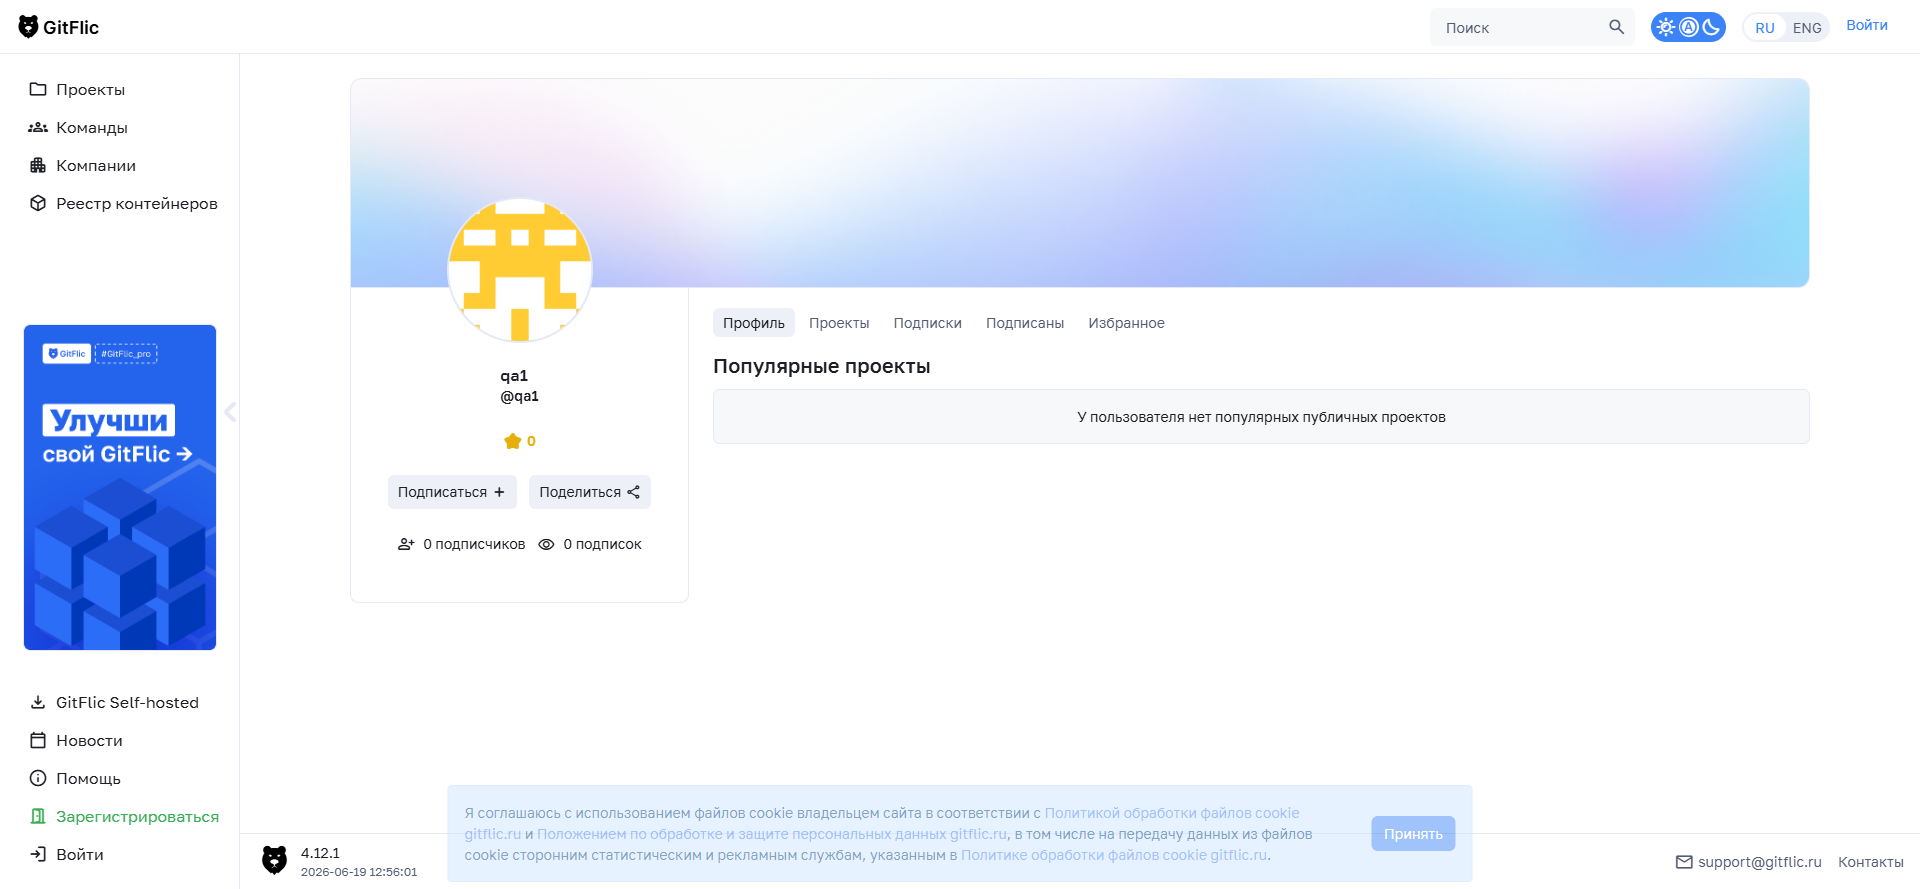
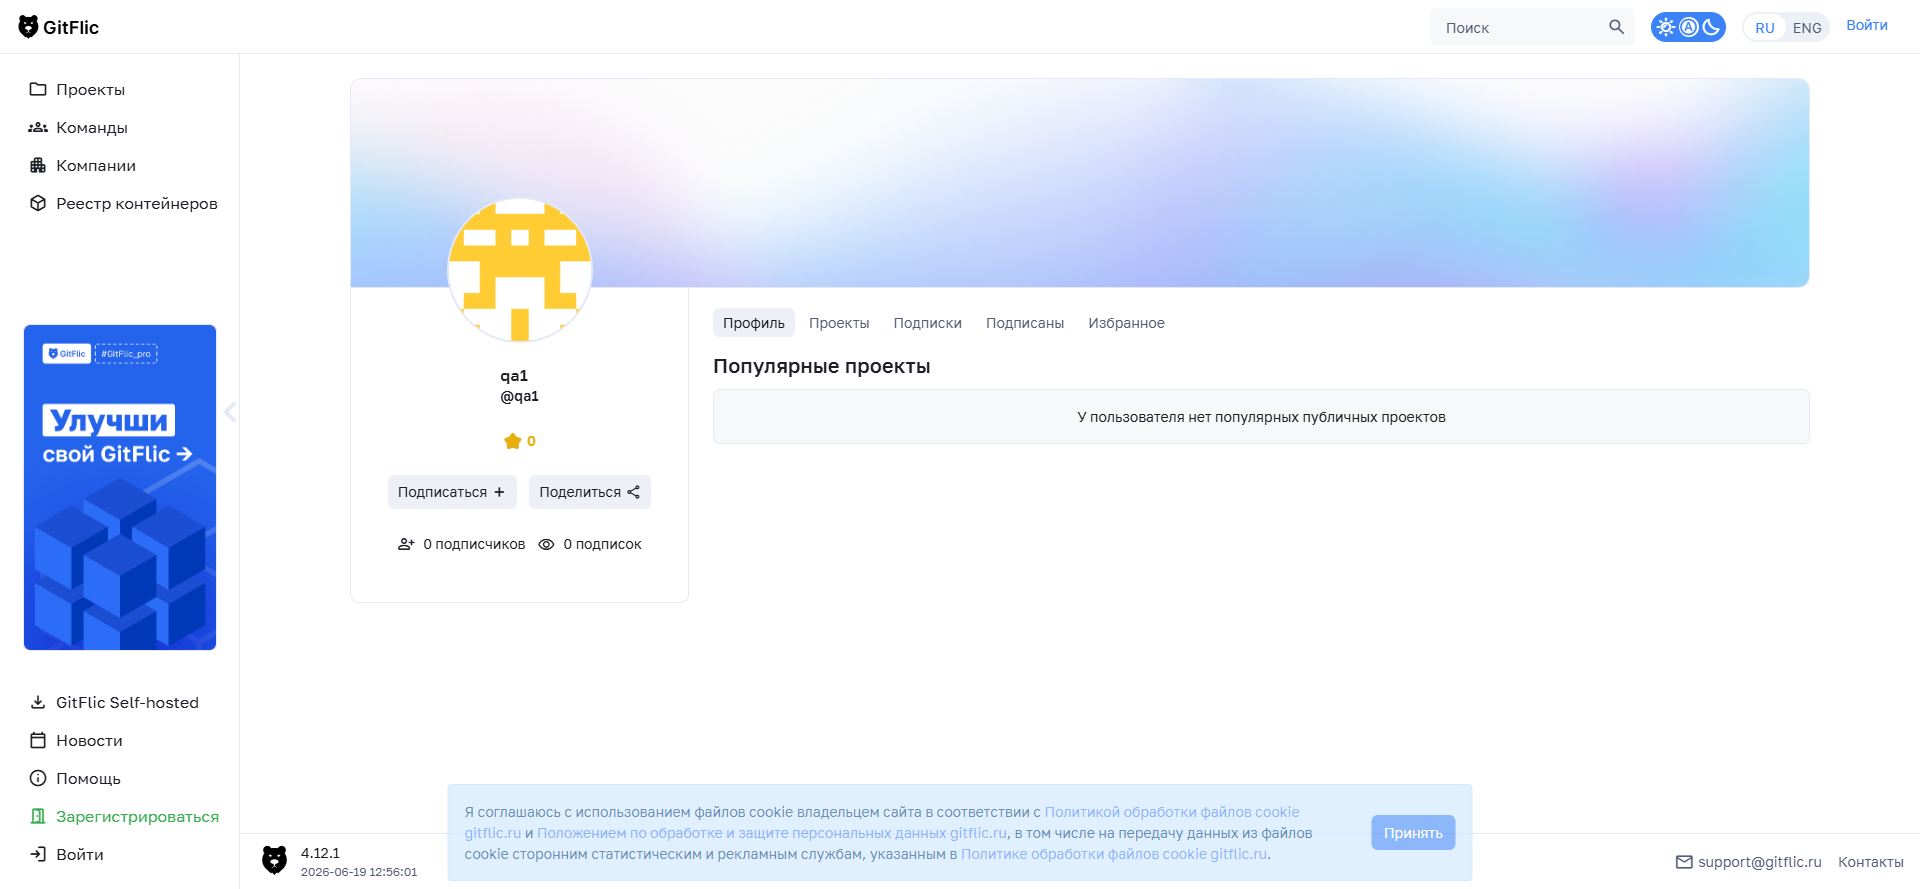
Контрольная работа из урока 5.6К. на проверку

Changed region(s): [[0.25, 0.9111, 0.6875, 0.9719], [0.7188, 0.9111, 0.75, 0.9415]]

diff --git a/Lesson_06K/test_01_form.py b/Lesson_06K/test_01_form.py
@@ -1,0 +1,87 @@
+from selenium import webdriver
+from selenium.webdriver.common.by import By
+
+
+def test_form():
+    driver = webdriver.Edge()
+    driver.get("https://bonigarcia.dev/selenium-webdriver-java/data-types.html")
+    driver.maximize_window()
+
+    input_first_name = driver.find_element(By.NAME, "first-name")
+    input_first_name.send_keys("Иван")
+
+    input_second_name = driver.find_element(By.NAME, "last-name")
+    input_second_name.send_keys("Петров")
+
+    input_address = driver.find_element(
+        By.CSS_SELECTOR, "input[name='address']")
+    input_address.send_keys("Ленина, 55-3")
+
+    input_email = driver.find_element(
+        By.CSS_SELECTOR, "input[name='e-mail']")
+    input_email.send_keys("[email redacted]")
+
+    input_phone_number = driver.find_element(
+        By.CSS_SELECTOR, "input[name='phone']")
+    input_phone_number.send_keys("[phone redacted]")
+
+    input_city = driver.find_element(
+        By.CSS_SELECTOR, "input[name='city']")
+    input_city.send_keys("Москва")
+
+    input_country = driver.find_element(
+        By.CSS_SELECTOR, "input[name='country']")
+    input_country.send_keys("Россия")
+
+    input_job_position = driver.find_element(By.NAME, "job-position")
+    input_job_position.send_keys("QA")
+
+    input_company = driver.find_element(
+        By.CSS_SELECTOR, "input[name='company']")
+    input_company.send_keys("SkyPro")
+
+    submit_btn = driver.find_element(
+        By.CSS_SELECTOR, "button[type='submit']")
+    submit_btn.click()
+
+    zip_code_alert = driver.find_element(
+        By.XPATH, "//div[@id='zip-code']")
+    assert zip_code_alert.get_attribute("class") == "alert py-2 alert-danger"
+
+    first_name_alert = driver.find_element(
+        By.XPATH, "//div[@id='first-name']")
+    assert first_name_alert.get_attribute("class") == "alert py-2 alert-success"
+
+    second_name_alert = driver.find_element(
+        By.XPATH, "//div[@id='last-name']")
+    assert second_name_alert.get_attribute("class") == "alert py-2 alert-success"
+
+    address_alert = driver.find_element(
+        By.XPATH, "//div[@id='address']")
+    assert address_alert.get_attribute("class") == "alert py-2 alert-success"
+
+    email_alert = driver.find_element(
+        By.XPATH, "//div[@id='e-mail']")
+    assert email_alert.get_attribute("class") == "alert py-2 alert-success"
+
+    phone_number_alert = driver.find_element(
+        By.XPATH, "//div[@id='phone']")
+    assert phone_number_alert.get_attribute("class") == "alert py-2 alert-success"
+
+    city_alert = driver.find_element(
+        By.XPATH, "//div[@id='city']")
+    assert city_alert.get_attribute("class") == "alert py-2 alert-success"
+
+    country_alert = driver.find_element(
+        By.XPATH, "//div[@id='country']")
+    assert country_alert.get_attribute("class") == "alert py-2 alert-success"
+
+    job_position_alert = driver.find_element(
+        By.XPATH, "//div[@id='job-position']")
+    assert job_position_alert.get_attribute("class") == "alert py-2 alert-success"
+
+    company_alert = driver.find_element(
+        By.XPATH, "//div[@id='company']")
+    assert company_alert.get_attribute("class") == "alert py-2 alert-success"
+
+    driver.quit()

diff --git a/Lesson_06K/test_03_shop.py b/Lesson_06K/test_03_shop.py
@@ -1,0 +1,64 @@
+from selenium import webdriver
+from selenium.webdriver.common.by import By
+from selenium.webdriver.support.ui import WebDriverWait
+from selenium.webdriver.support import expected_conditions as EC
+
+
+def test_shop():
+    driver = webdriver.Firefox()
+    driver.get("https://www.saucedemo.com/")
+    driver.maximize_window()
+
+    input_login = driver.find_element(By.ID, "user-name")
+    input_login.send_keys("standard_user")
+
+    input_password = driver.find_element(By.ID, "password")
+    input_password.send_keys("secret_sauce")
+
+    login_btn = driver.find_element(By.ID, "login-button")
+    login_btn.click()
+
+    sl_backpack = driver.find_element(
+        By.ID, "add-to-cart-sauce-labs-backpack")
+    sl_backpack.click()
+
+    sl_shirt = driver.find_element(
+        By.ID, "add-to-cart-sauce-labs-bolt-t-shirt")
+    sl_shirt.click()
+
+    sl_onesie = driver.find_element(By.ID, "add-to-cart-sauce-labs-onesie")
+    sl_onesie.click()
+
+    shopping_cart = driver.find_element(By.CLASS_NAME, "shopping_cart_link")
+    shopping_cart.click()
+
+    WebDriverWait(driver, 10).until(EC.url_contains("/cart"))
+
+    checkout_btn = driver.find_element(By.XPATH, "//button[@id='checkout']")
+    checkout_btn.click()
+
+    WebDriverWait(driver, 10).until(EC.url_contains("/checkout-step-one"))
+
+    input_first_name = driver.find_element(By.ID, "first-name")
+    input_first_name.clear()
+    input_first_name.send_keys("Иван")
+
+    input_last_name = driver.find_element(By.ID, "last-name")
+    input_last_name.clear()
+    input_last_name.send_keys("Петров")
+
+    input_zip_code = driver.find_element(By.ID, "postal-code")
+    input_zip_code.clear()
+    input_zip_code.send_keys("100200")
+
+    continue_btn = driver.find_element(By.ID, "continue")
+    continue_btn.click()
+
+    WebDriverWait(driver, 10).until(EC.url_contains("/checkout-step-two"))
+
+    total_sum = driver.find_element(By.CSS_SELECTOR, ".summary_total_label")
+    sum = total_sum.text
+
+    driver.quit()
+
+    assert sum == "Total: $58.29"

diff --git a/Lesson_06K/test_02_calc.py b/Lesson_06K/test_02_calc.py
@@ -1,0 +1,35 @@
+from selenium import webdriver
+from selenium.webdriver.common.by import By
+from selenium.webdriver.support.ui import WebDriverWait
+from selenium.webdriver.support import expected_conditions as EC
+
+
+def test_calc():
+    driver = webdriver.Chrome()
+    driver.get("https://bonigarcia.dev/selenium-webdriver-java/slow-calculator.html")
+    driver.maximize_window()
+
+    delay_time = driver.find_element(By.CSS_SELECTOR, "#delay")
+    delay_time.clear()
+    delay_time.send_keys("45")
+
+    seven_btn = driver.find_element(By.XPATH, "//span[normalize-space()='7']")
+    seven_btn.click()
+
+    plus_btn = driver.find_element(By.XPATH, "//span[normalize-space()='+']")
+    plus_btn.click()
+
+    eight_btn = driver.find_element(By.XPATH, "//span[normalize-space()='8']")
+    eight_btn.click()
+
+    equally_btn = driver.find_element(
+        By.XPATH, "//span[@class='btn btn-outline-warning']")
+    equally_btn.click()
+
+    WebDriverWait(driver, 50).until(
+        EC.text_to_be_present_in_element((By.XPATH, "//div[@class='screen']"), "15")
+    )
+    calc_sum = driver.find_element(By.XPATH, "//div[@class='screen']")
+    assert calc_sum.text == "15"
+
+    driver.quit()